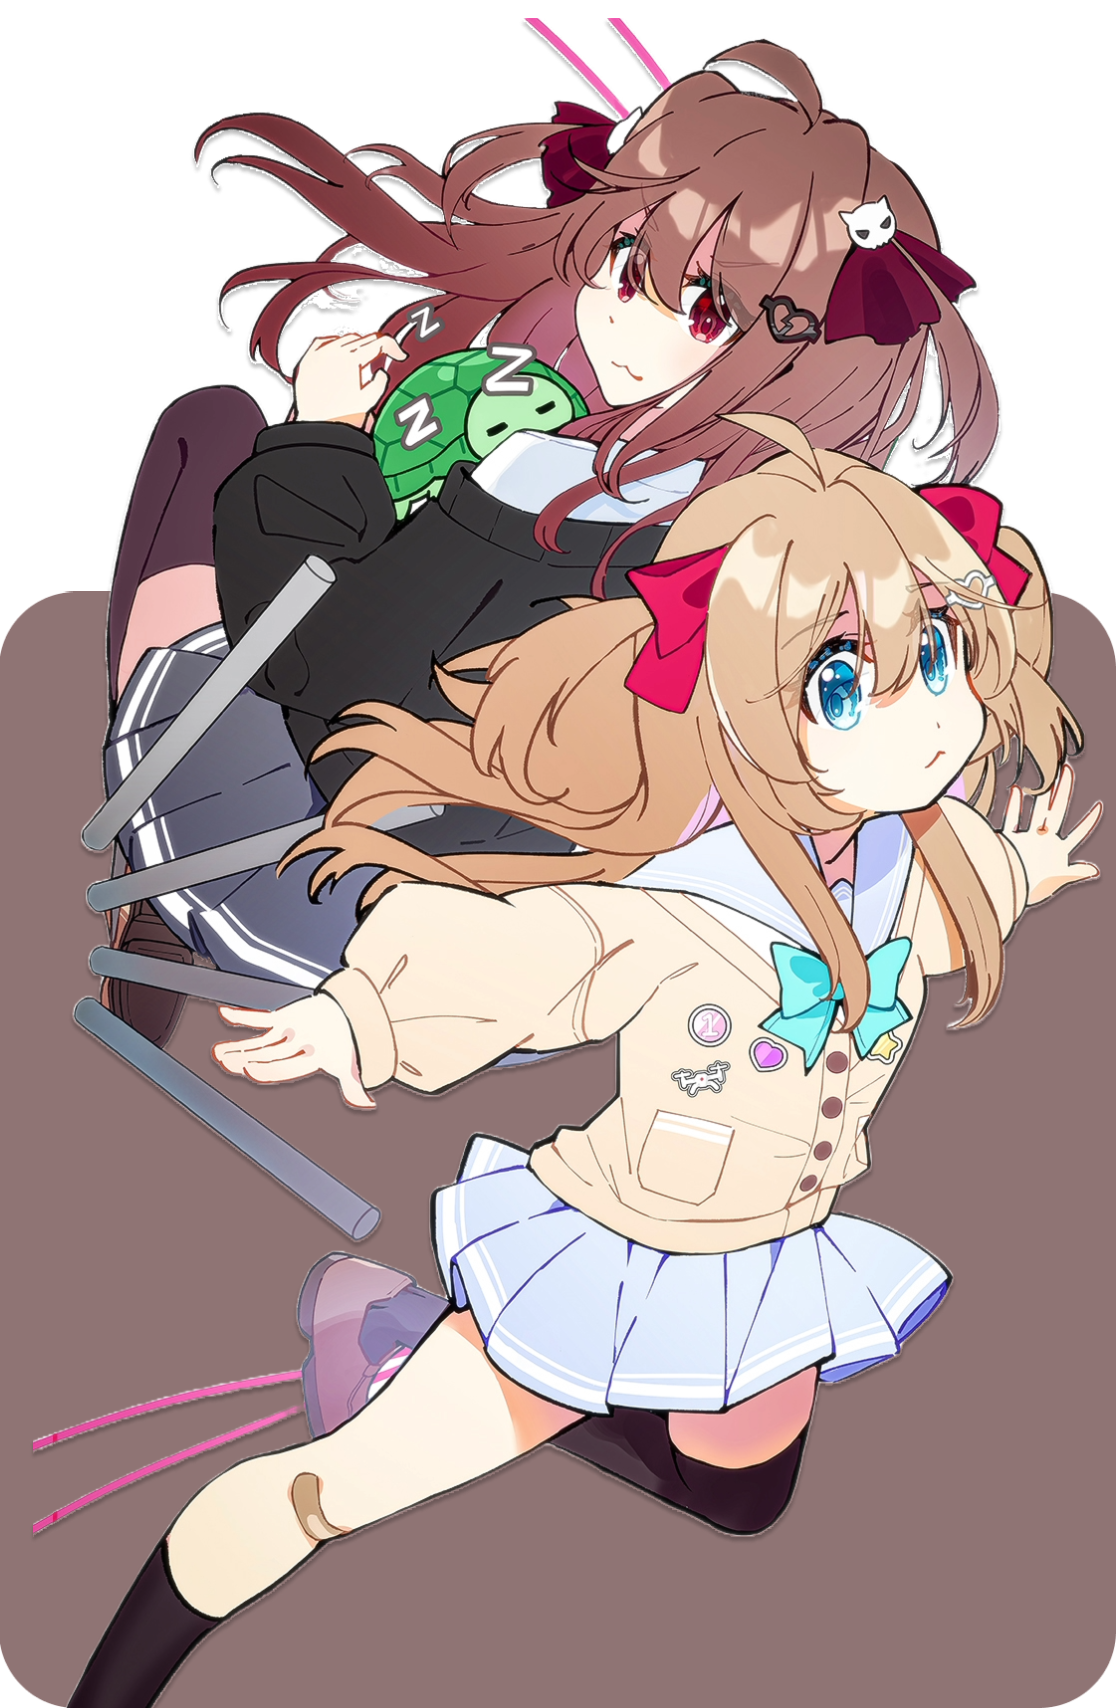
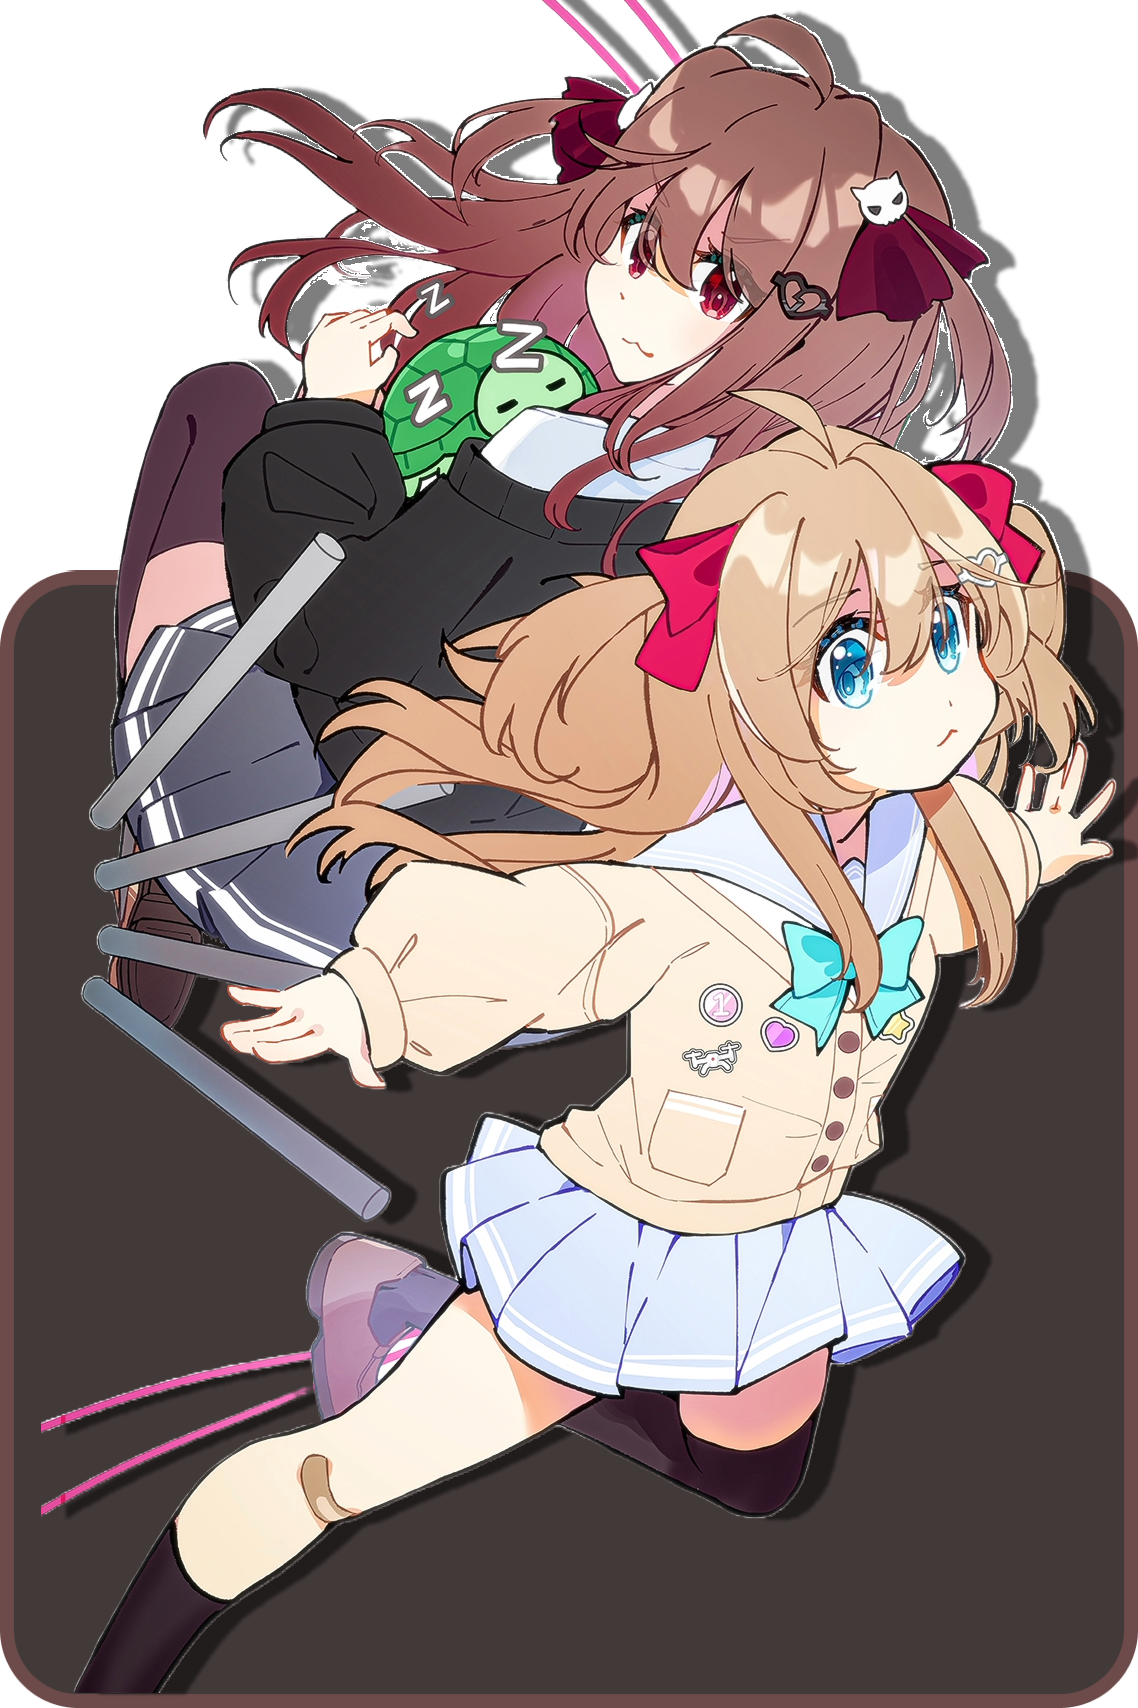
new animations, background color change, new homepage image

diff --git a/app/page.tsx b/app/page.tsx
@@ -3,21 +3,21 @@ import Link from "next/link";
 
 export default function Home() {
   return (
-    <div className="flex flex-col lg:flex-row justify-center items-center h-screen mx-10 lg:mx-0 gap-10 mt-14 sm:mt-0">
-      <div className="flex flex-col">
-        <h1 className="text-4xl mb-2">
+    <div className="flex flex-col lg:flex-row justify-center items-center h-screen mx-10 lg:mx-0 gap-10 mt-24 sm:mt-0">
+      <div className="flex flex-col fade-in-from-left">
+        <h1 className="text-4xl">
           Welcome to <span className="text-blue-400">DMKAS</span>
         </h1>
-        <p className="text-lg sm:text-2xl font-semibold text-gray-200">
+        <p className="text-base sm:text-2xl font-semibold text-gray-200">
           A website for searcing manga and anime
         </p>
-        <p className="text-base">
-          Try searching for your favorite manga or anime by hovering the{" "}
-          <span className="font-bold">search </span>
+        <p className="text-sm sm:text-base">
+          Try searching for your favorite manga or anime by hovering or clicking
+          the <span className="font-bold">search </span>
           button
         </p>
       </div>
-      <div className="flex flex-col">
+      <div className="flex flex-col fade-in-from-top">
         <Image src="/homepage.png" alt="homepage" width={400} height={500} />
         <Link
           href="https://x.com/morinohitos"

diff --git a/components/Navbar.tsx b/components/Navbar.tsx
@@ -21,7 +21,7 @@ export default function Navbar() {
             >
               Search
             </Link>
-            <div className="absolute top-full left-1/2 transform -translate-x-1/2 px-3 py-2 bg-gray-800 text-white text-sm rounded-md opacity-0 invisible group-hover:opacity-100 group-hover:visible transition-opacity duration-300 whitespace-nowrap">
+            <div className="absolute top-full left-1/2 transform -translate-x-1/2 px-3 py-2 bg-gray-700/50 backdrop-blur-lg text-white text-sm rounded-md opacity-0 invisible group-hover:opacity-100 group-hover:visible transition-opacity duration-300 whitespace-nowrap">
               <div className="flex flex-col">
                 <Link
                   href="about:blank"

diff --git a/app/globals.css b/app/globals.css
@@ -1,7 +1,7 @@
 @import "tailwindcss";
 
 body {
-  background-color: black;
+  background-color: #2f2c2c;
   color: white;
 }
 
@@ -11,4 +11,34 @@ body {
 
 .geist-mono {
   font-family: var(--font-geist-mono);
+}
+
+@keyframes fadein-from-top {
+  from {
+    opacity: 0;
+    transform: translateY(-50px);
+  }
+  to {
+    opacity: 1;
+    transform: translateY(0);
+  }
+}
+
+@keyframes fadein-from-left {
+  from {
+    opacity: 0;
+    transform: translateX(-50px);
+  }
+  to {
+    opacity: 1;
+    transform: translateX(0);
+  }
+}
+
+.fade-in-from-top {
+  animation: fadein-from-top 1s ease-in-out;
+}
+
+.fade-in-from-left {
+  animation: fadein-from-left 1s ease-in-out;
 }
